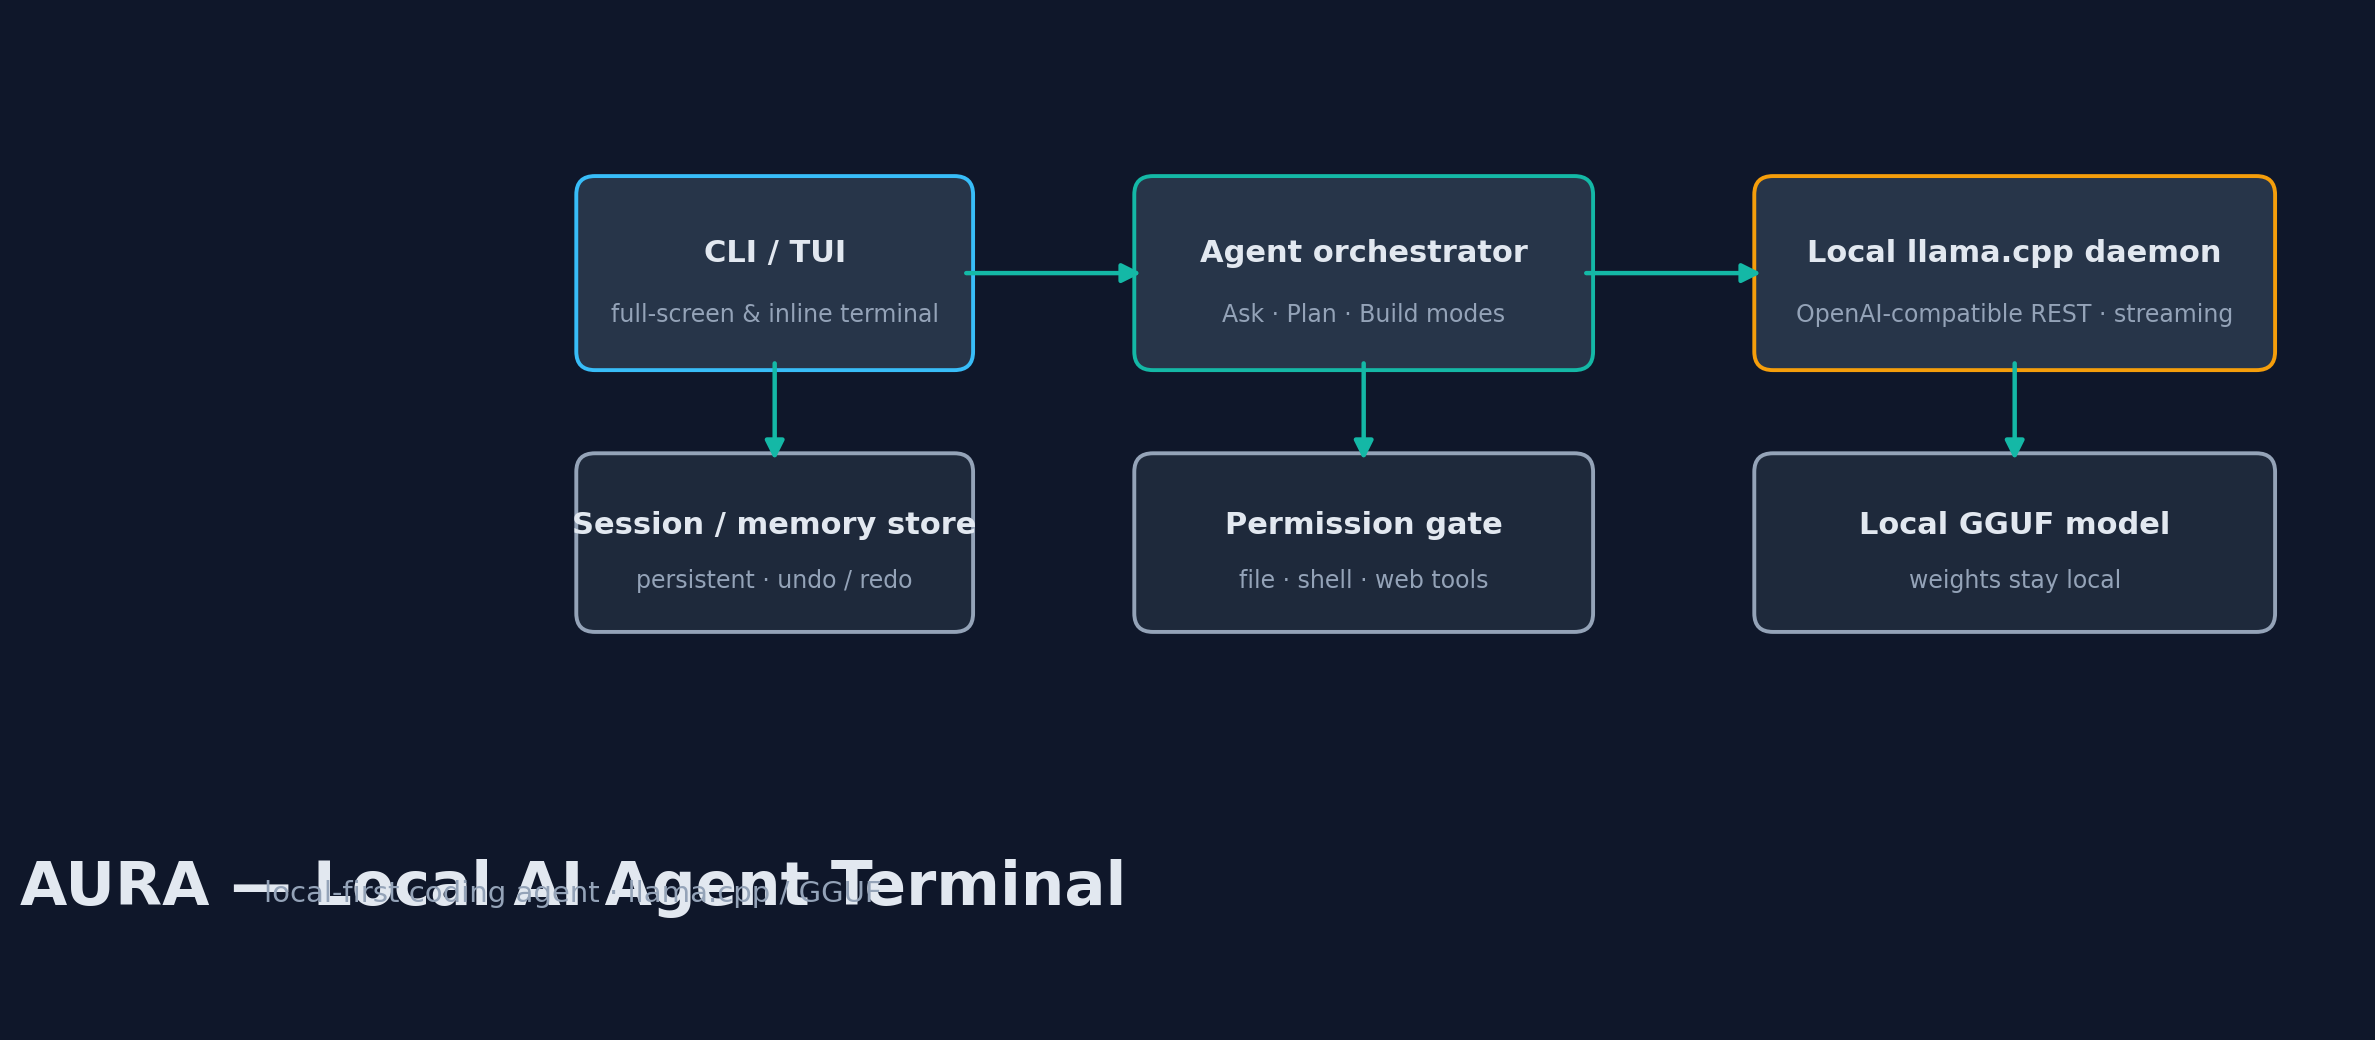
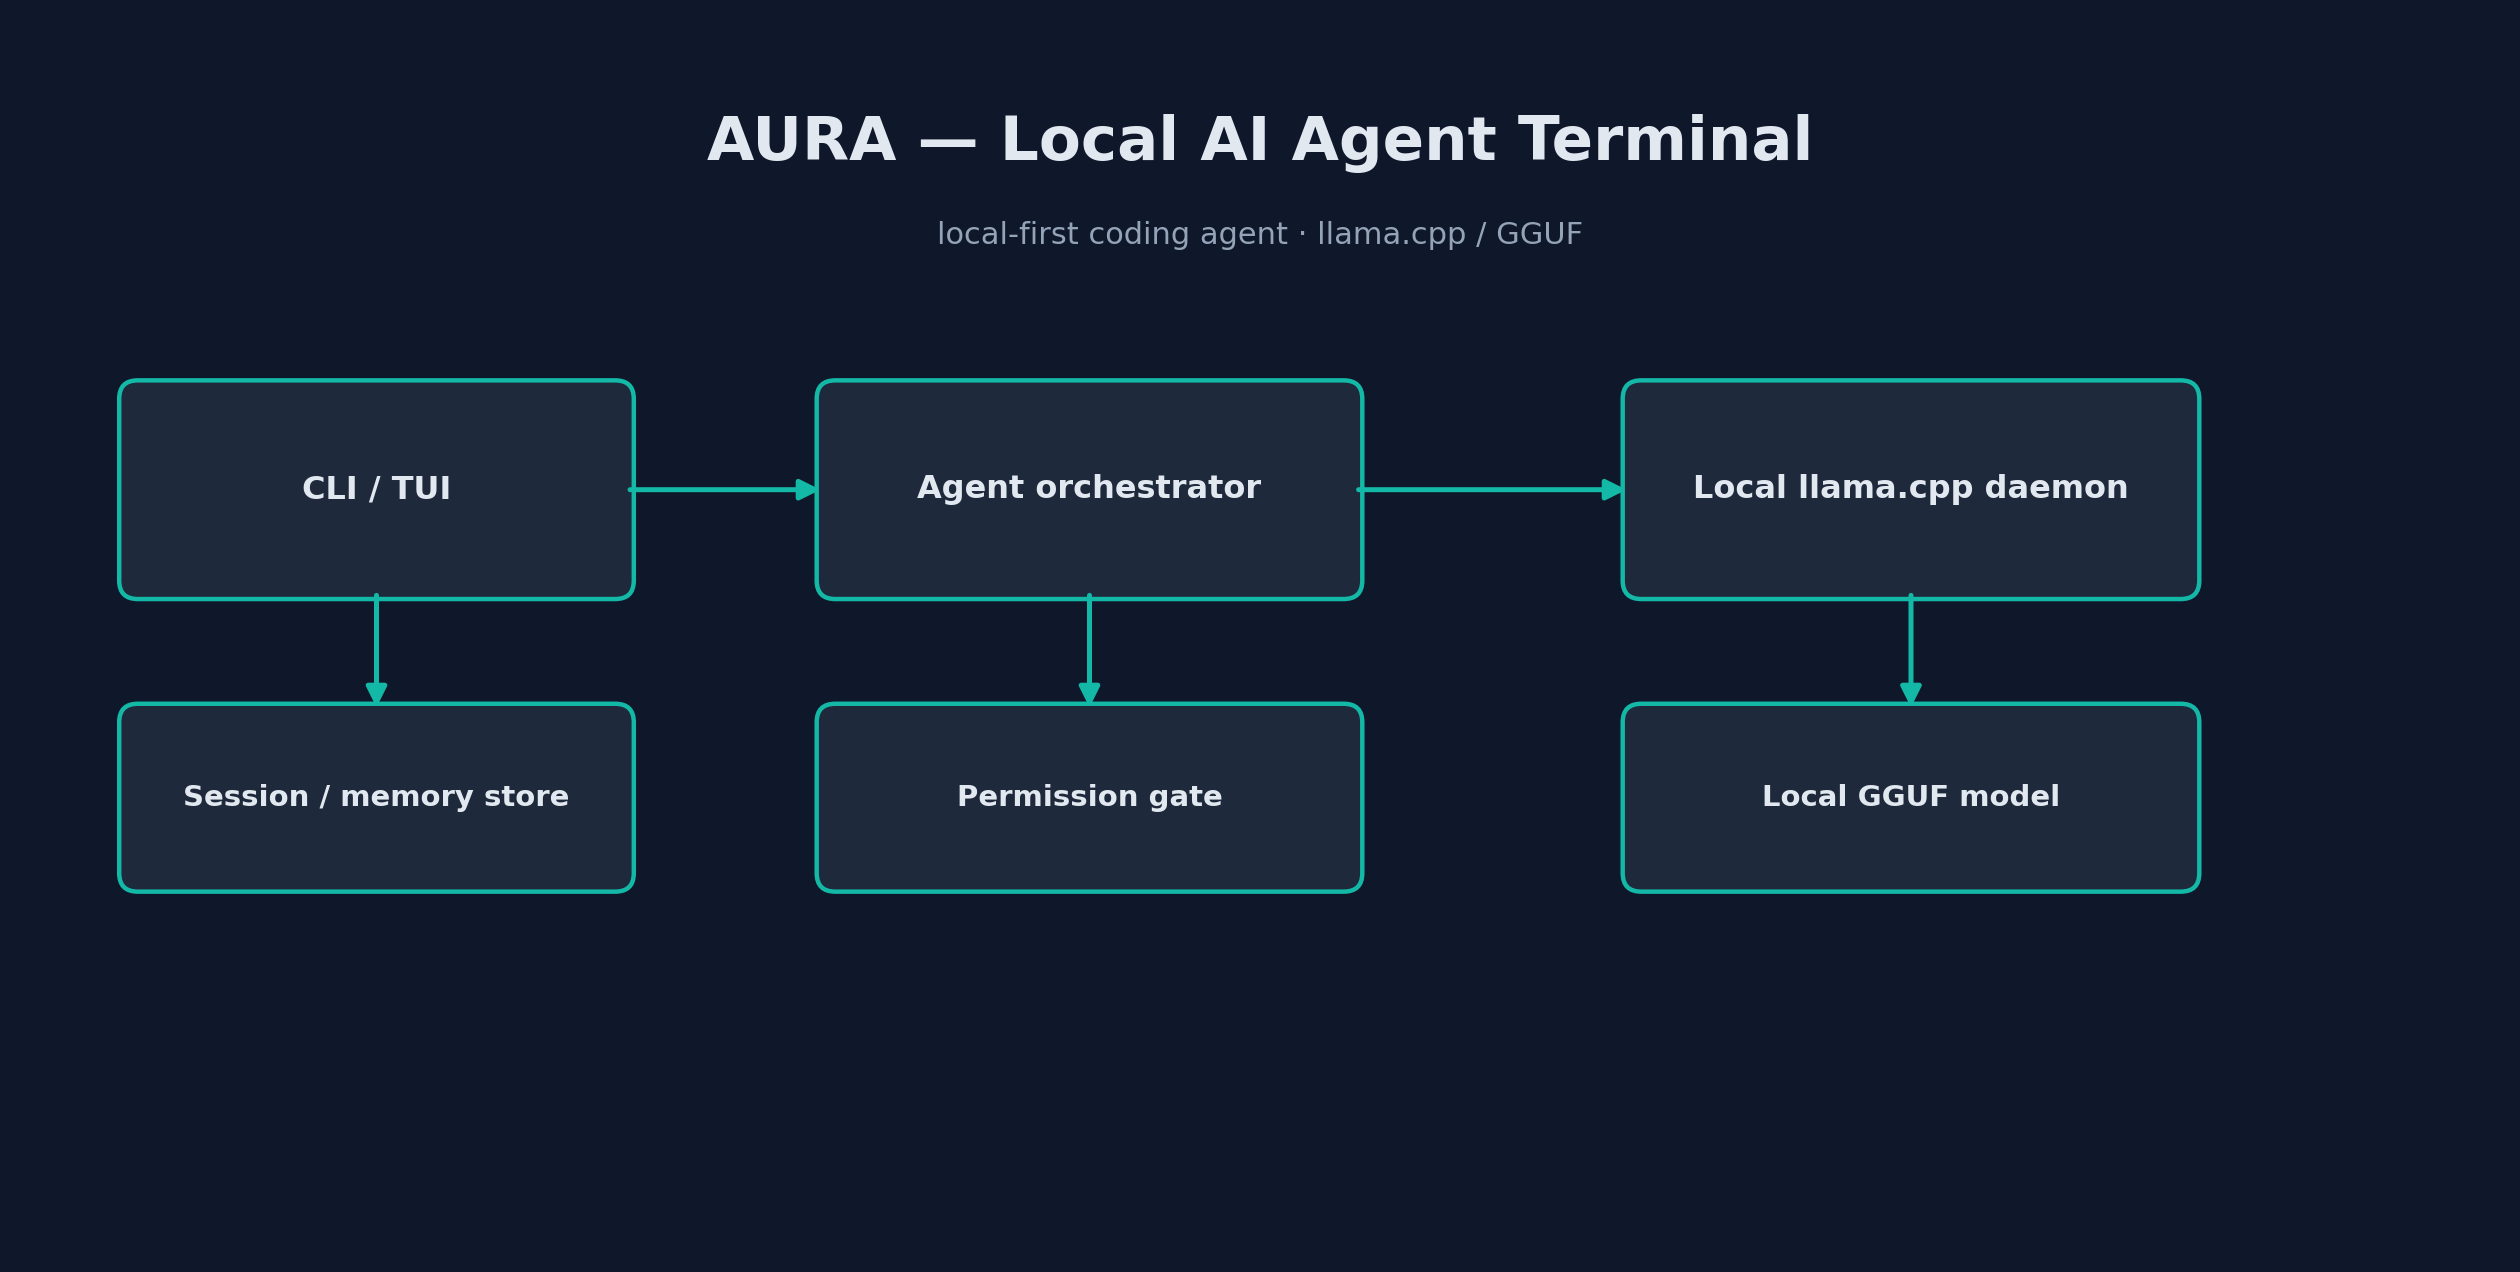
visual: redesign hero assets with clean layout, strip svg metadata

diff --git a/README.md b/README.md
@@ -40,6 +40,8 @@ The private project validates agent-core behavior, daemon start/stop lifecycle, 
 
 ## Visual overview
 
+![AURA](assets/aura-hero.png)
+
 ![AURA architecture](assets/aura-architecture.png)
 
 ## Demo
